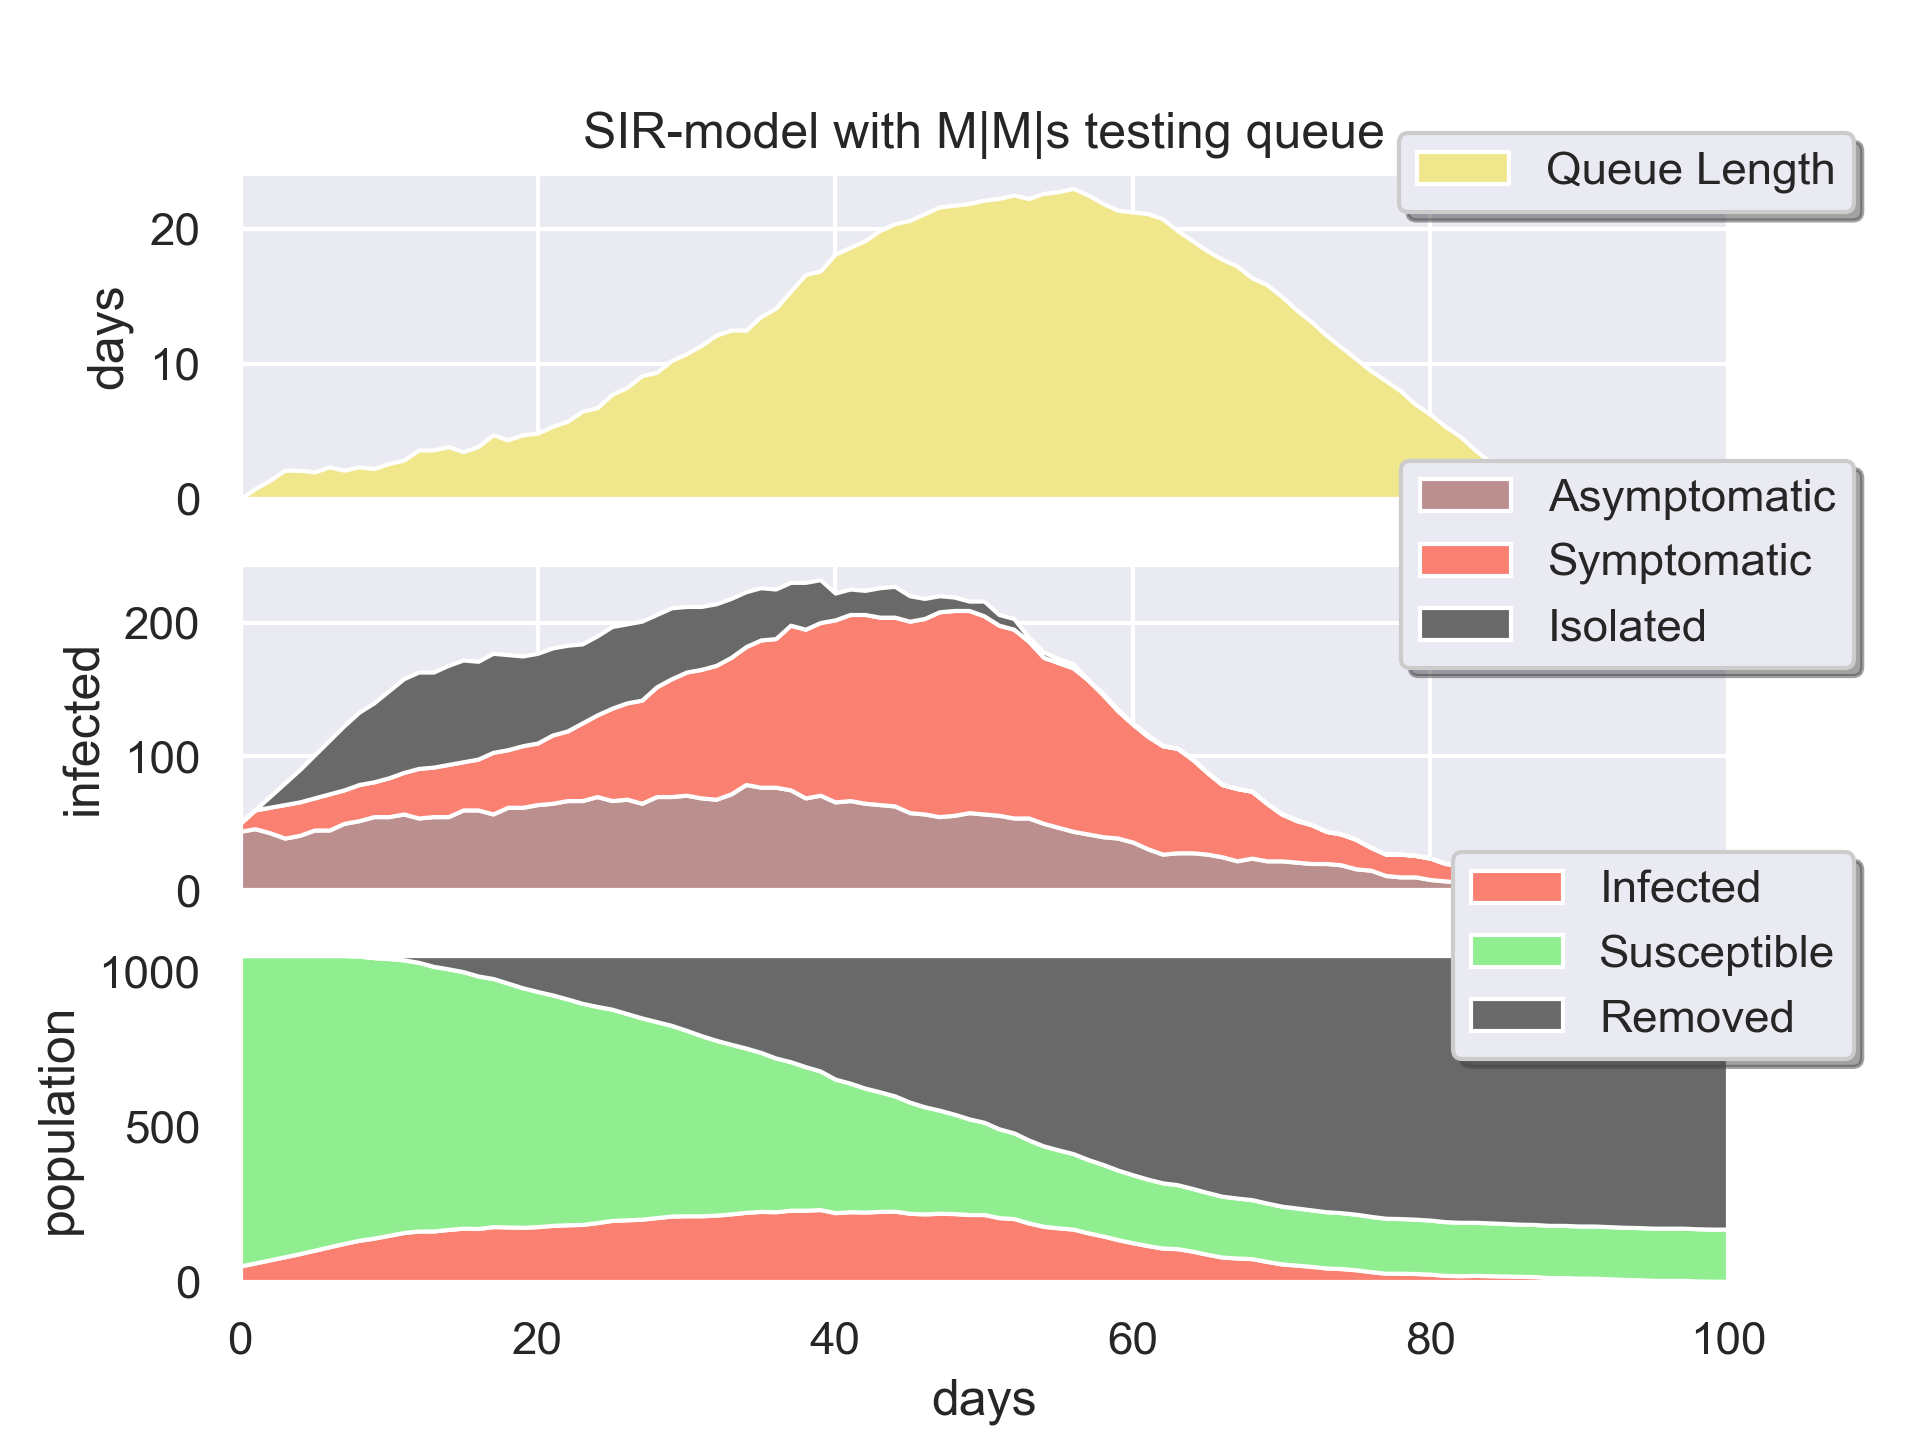
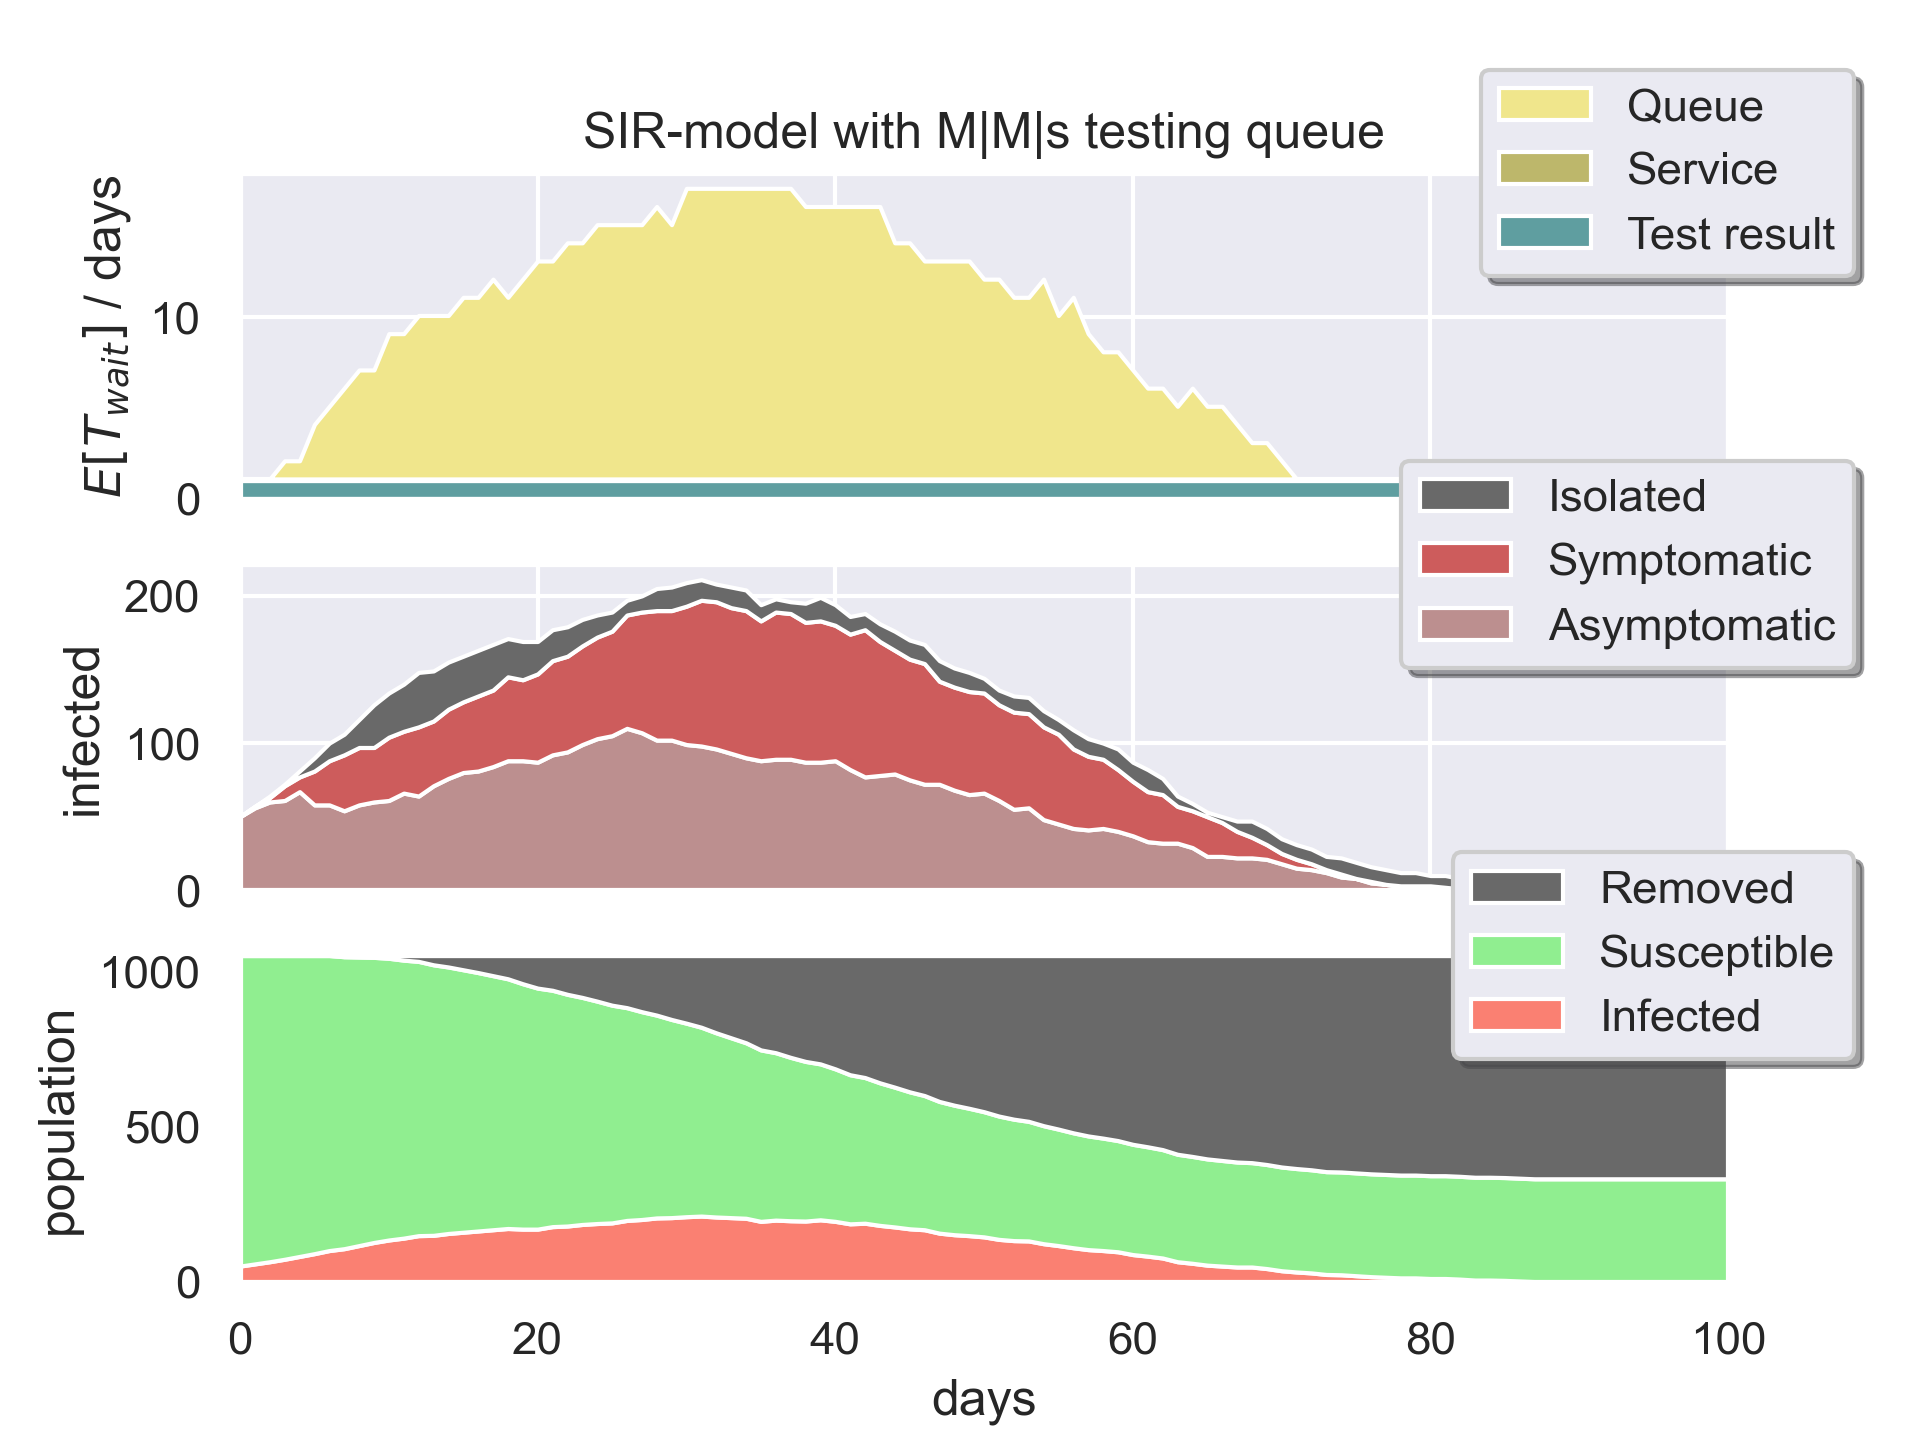
Improve plot helpers and update Readme

diff --git a/SIR_model/model.py b/SIR_model/model.py
@@ -17,12 +17,12 @@ class Model:
     """SIR-model with M|M|s testing queue.
     """
 
-    def __init__(self, duration=150,  # days
+    def __init__(self, duration=100,  # days
                  susceptible=1000, infected=50, removed=0,  # initial
-                 rateSI=0.158,  # per timeStep
-                 pSymptomatic=.8, tSymptomatic=2, tRecovery=14,  # p-probability, t-time in  days
-                 pFalseSymptoms=0, tFalseRecovery=7,  # For S
-                 servers=1, serverMu=1/8,  # serverMu: day/person
+                 rateSI=0.14,  # per timeStep
+                 pSymptomatic=.8, tSymptomatic=5, tRecovery=14,  # p-probability, t-time in  days
+                 pFalseSymptoms=0.01, tFalseRecovery=7,
+                 servers=1, serverMu=1/10,  # serverMu: day/person
                  tTestResult=1, queuePrioritization='FIFO',
                  tReneging=2,  # days, after revovery, None for no reneging
                  seed=None  # Specify with int for consistent result
@@ -66,14 +66,15 @@ class Model:
     def run(self):
         """Executes the simulation.
         """
-        ts = np.linspace(0, self.Duration, self.NTimeSteps)
-
         for person in self.People:
             person.advance(0)
         queue = TestQueue(self.NServers, self.ServerMu,
                           self.QueuePrioritization)
         state = ModelIdState(self.People, queue)
 
+        ts = np.linspace(0, self.Duration, self.NTimeSteps)
+        self.StartTime = 0
+        self.EndTime = self.Duration
         results = Result({"Time": ts,
                           "ExpectedWaitTestResult": [self.TTestResult for i in range(len(ts))],
                           "ExpectedWaitService": [self.ServerMu for i in range(len(ts))]})
@@ -164,29 +165,40 @@ class Model:
         """
         self.__plot(fileName, shouldOpenFile, title, True)
 
-    def __plot(self, fileName='result.png', shouldOpenFile=True, title='SIR-model with M|M|s testing queue', queueDistributionPlot=False):
-        self.StartTime = 0
-        self.EndTime = max(self.Results['Time'])
+    def __assertModelHasRun(self):
         if not self.HasModelRun:
             raise Exception('Call Model.run() before plotting.')
 
+    def __plot(self, fileName='result.png', shouldOpenFile=True, title='SIR-model with M|M|s testing queue', queueDistributionPlot=False):
+        self.__assertModelHasRun()
         sns.set_theme(style="darkgrid")
 
         fig, axs = plt.subplots(3, 1)
         if queueDistributionPlot:
             self.plotQueueDistribution(axs[0])
         else:
-            self.plotQueueWaitTime(axs[0])
+            self.plotExpectedWaitTime(axs[0])
         axs[0].set_title(title)
         self.plotInfected(axs[1])
         self.plotSIR(axs[2])
+
+        for i in [0, 1]:
+            axs[i].tick_params(
+                axis='x',
+                which='both',
+                bottom=False,
+                top=False,
+                labelbottom=False)
+            axs[i].set_xlabel(None)
 
         fig.savefig(fileName, dpi=300)
 
         if shouldOpenFile:
             openFile(fileName)
 
-    def plotQueueWaitTime(self, ax):
+    def plotExpectedWaitTime(self, ax):
+        self.__assertModelHasRun()
+
         if self.NServers == 0:
             props = dict(boxstyle='round', facecolor='white', alpha=1)
             ax.text(.5, .5, r'$\infty$',
@@ -204,24 +216,21 @@ class Model:
                       self.Results['ExpectedWaitQueue']],
                      labels=['Test result', 'Service', 'Queue'],
                      colors=['cadetblue', 'darkkhaki', 'khaki'])
+        ax.set_xlabel('days')
         ax.set_ylabel(r'$E[T_{wait}]$ / days')
         ax.set_xlim(self.StartTime, self.EndTime)
         if max(self.Results['ExpecteWaitTotal']) < 1 or self.NServers == 0:
             ax.set_ylim(0, 1)
         else:
             ax.set_ylim(0)
-        ax.tick_params(
-            axis='x',
-            which='both',
-            bottom=False,
-            top=False,
-            labelbottom=False)
         handles, labels = ax.get_legend_handles_labels()
         ax.legend(handles[::-1], labels[::-1],
                   bbox_to_anchor=(1.1, 1), loc='right',
                   ncol=1, fancybox=True, shadow=True)
 
     def plotQueueDistribution(self, ax):
+        self.__assertModelHasRun()
+
         ax.stackplot(self.Results['Time'],
                      [self.Results['InfectedQueued'],
                       self.Results['SusceptibleQueued'],
@@ -232,40 +241,34 @@ class Model:
         ax.legend(handles[::-1], labels[::-1],
                   bbox_to_anchor=(1.1, 1), loc='right',
                   ncol=1, fancybox=True, shadow=True)
+        ax.set_xlabel('days')
         ax.set_ylabel('queued')
         ax.set_xlim(self.StartTime, self.EndTime)
         if max(self.Results['Queued']) < 1:
             ax.set_ylim(0, 1)
         else:
             ax.set_ylim(0)
-        ax.tick_params(
-            axis='x',
-            which='both',
-            bottom=False,
-            top=False,
-            labelbottom=False)
 
     def plotInfected(self, ax):
+        self.__assertModelHasRun()
+
         ax.stackplot(self.Results['Time'],
                      [self.Results['InfectedAsymptomaticUnisolated'],
                       self.Results['InfectedSymptomaticUnisolated'],
                       self.Results['InfectedIsolated']],
                      labels=['Asymptomatic', 'Symptomatic', 'Isolated'],
                      colors=['rosybrown', 'indianred', 'dimgray'])
+        ax.set_xlabel('days')
         ax.set_ylabel('infected')
         ax.set_xlim(self.StartTime, self.EndTime)
-        ax.tick_params(
-            axis='x',
-            which='both',
-            bottom=False,
-            top=False,
-            labelbottom=False)
         handles, labels = ax.get_legend_handles_labels()
         ax.legend(handles[::-1], labels[::-1],
                   bbox_to_anchor=(1.1, 1), loc='right',
                   ncol=1, fancybox=True, shadow=True)
 
     def plotSIR(self, ax):
+        self.__assertModelHasRun()
+
         ax.stackplot(self.Results['Time'],
                      [self.Results['Infected'], self.Results['Susceptible'],
                       self.Results['Removed']], labels=['Infected', 'Susceptible', 'Removed'],

diff --git a/example_analysis.py b/example_analysis.py
@@ -20,7 +20,7 @@ model3.run()
 
 # ------- Plot -------
 fileName = 'images\\example_analysis.png'
-plt.subplot(3, 1, 1)
+plt.subplot(2, 1, 1)
 plt.stackplot(model1.Results['Time'],
               [model1.Results['Infected'], model1.Results['Susceptible'],
                model1.Results['Removed']], labels=['Infected', 'Susceptible', 'Removed'],
@@ -36,32 +36,17 @@ plt.tick_params(
     labelbottom=False)
 plt.xlim(min(model1.Results['Time']), max(model1.Results['Time']))
 plt.ylim(0, model1.TotalIndividuals)
-plt.title('Queue Analysis')
+plt.title('Server Analysis')
 
-plt.subplot(3, 1, 2)
+plt.subplot(2, 1, 2)
 plt.stackplot(model2.Results['Time'],
               [model2.Results['Infected'], model2.Results['Susceptible'],
                model2.Results['Removed']],
               colors=['salmon', 'lightgreen', 'dimgray'])
+plt.xlabel('days')
 plt.ylabel('2 servers')
-plt.tick_params(
-    axis='x',
-    which='both',
-    bottom=False,
-    top=False,
-    labelbottom=False)
 plt.xlim(min(model2.Results['Time']), max(model2.Results['Time']))
 plt.ylim(0, model2.TotalIndividuals)
-
-plt.subplot(3, 1, 3)
-plt.stackplot(model3.Results['Time'],
-              [model3.Results['Infected'], model3.Results['Susceptible'],
-               model3.Results['Removed']],
-              colors=['salmon', 'lightgreen', 'dimgray'])
-plt.ylabel('3 servers')
-plt.xlabel('days')
-plt.xlim(min(model3.Results['Time']), max(model3.Results['Time']))
-plt.ylim(0, model3.TotalIndividuals)
 
 plt.savefig(fileName, dpi=300)
 plt.close()

diff --git a/example_simulation.py b/example_simulation.py
@@ -3,3 +3,5 @@ from SIR_model import Model
 model = Model()
 model.run()
 model.plot('images\\example_simulation.png')
+model.queueDistributionPlot(
+    'images\\example_simulation_queue_distribution.png')

diff --git a/SIR_model/file_opener.py b/SIR_model/file_opener.py
@@ -4,6 +4,7 @@ import subprocess
 
 
 def openFile(fileName):
+    fileName = fileName.replace("/", "\\")
     if sys.platform == "win32":
         os.startfile(fileName, 'open')
     else:

diff --git a/README.md b/README.md
@@ -1,6 +1,10 @@
 # COVID-19: SIR-model with testing
 This model strives to simulate the COVID-19 pandemic with testing implemented as a M|M|s-queue.
 
+When a person shows symptoms he or she is queued for a test. When the queue is empty the person is tested and after a set number of days the test result arrives. At this point the infected individual is isolated. This total time is denoted *Expected Waiting Time* and the purpose of this project is to evaluate how this number affects out control of the pandemic. 
+
+The project is a part of the course *SF2866 Applied Systems Engineering* at *KTH Royal Institute of Science*.
+
 ## Installation
 
 1. [Install Python 3](https://www.python.org/downloads/) 
@@ -29,6 +33,10 @@ Generates
 
 ![example_simulation](images/example_simulation.png)
 
+Switching `model.plot()` for `model.queueDistributionPlot()` generates
+
+![example_simulation](images/example_simulation_queue_distribution.png)
+
 ### Analysis example
 
 ##### `example_analysis.py`:
@@ -45,11 +53,64 @@ model1.run()
 model2 = Model(servers=2)
 model2.run()
 
-model3 = Model(servers=3)
-model3.run()
-
 # ------- Plot -------
 # /.../
 ```
 
- ![example_analysis](images/example_analysis.png)
+![example_analysis](images/example_analysis.png)
+
+### Plot helpers
+
+- The `Model` contains four public plot-helpers:
+  - `plotExpectedWaitTime(ax)`
+  - `plotQueueDistribution(ax)`
+  - `plotInfected(ax)`
+  - `plotSIR(ax)`
+  
+- *Example 1: Only SIR-plot*
+
+  - ```python
+    model = SIR_model.Model()
+    model.run()
+    
+    sns.set_theme(style="darkgrid")
+    fig, ax = plt.subplots(1, 1)
+    model.plotSIR(ax)
+    fig.savefig(dpi=300)
+    ```
+    
+  - ![SIR_only](images/SIR_plot.png)
+
+- *Example 2: All-plots*
+
+  - ```python
+    model = SIR_model.Model()
+    model.run()
+    
+    sns.set_theme(style="darkgrid")
+    fig, axs = plt.subplots(2, 2)
+    model.plotExpectedWaitTime(axs[0][0])
+    model.plotQueueDistribution(axs[0][1])
+    model.plotInfected(axs[1][0])
+    model.plotSIR(axs[1][1])
+    fig.tight_layout()
+    fig.savefig(dpi=300)
+    ```
+  - ![all_plots](images/all_plots.png)
+
+
+## Method description
+
+### SIR-model
+
+- This implementation uses the [default SIR-implementation](https://en.wikipedia.org/wiki/Compartmental_models_in_epidemiology#The_SIR_model_without_vital_dynamics) for the flow from S to I. However, the differential-equation-flow from I to R is replaced.
+- Instead, a person is assumed to recover after a Poisson-distributed number of days.
+
+### Queue-model
+
+- This implementation uses the [default-M|M|s-implementation](https://en.wikipedia.org/wiki/M/M/c_queue) for the death-process. However, the Poisson-birth-process is replaced.
+- Instead:
+  1. A person is infected accurding to the SIR-model above.
+  2. That person shows symptoms after after a Poisson-distributed number of days.
+  3. People are placed in the queue the day they start showing symptoms.
+     *False symptoms can occur for Susceptibles* 
